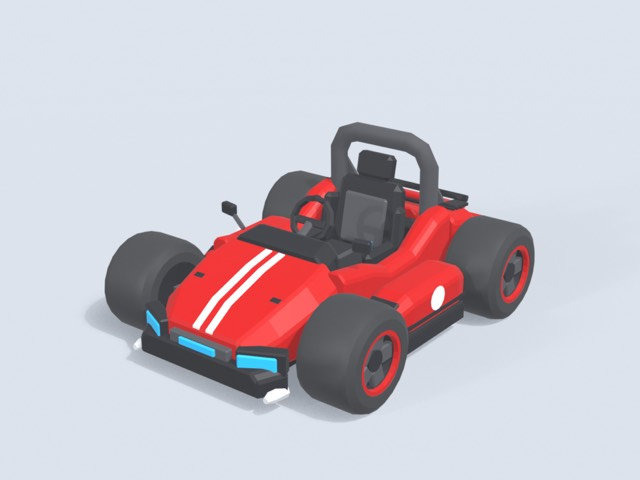
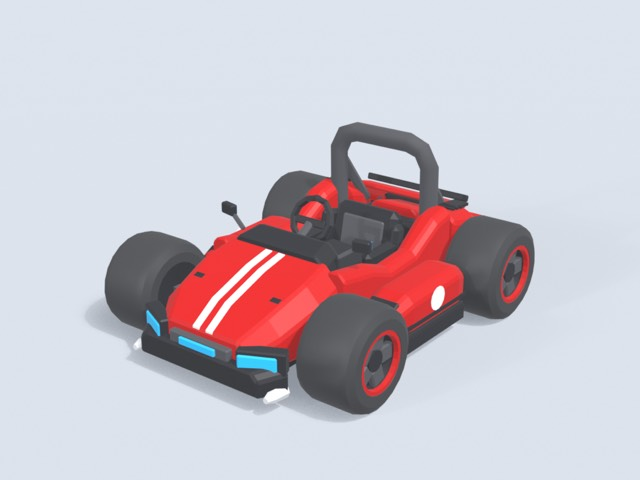
Trial: lower seat back on the scripted kart so the driver shows from behind

Changed region(s): [[0.5, 0.3125, 0.6562, 0.4688]]

diff --git a/scripts/blender/scripted-models/build_kart.py b/scripts/blender/scripted-models/build_kart.py
@@ -65,10 +65,11 @@ sw.rotation_euler=(0,-0.42,0)
 P.append(cube('steer_hub',BLK,(0.04,0,0.322),(0.012,0.10,0.022),rot=(0,-0.42,0),bevel=0.003))
 # --- seat
 P.append(cube('seat_base',BLK,(-0.12,0,0.135),(0.20,0.21,0.07),rot=(0,-0.08,0),bevel=0.014))
-P.append(cube('seat_back',BLK,(-0.235,0,0.255),(0.055,0.25,0.23),rot=(0,-0.2,0),bevel=0.018,taper=(1,0.84)))
-for sy in (-1,1): P.append(cube('seat_wing',BLK,(-0.205,sy*0.118,0.24),(0.07,0.03,0.15),rot=(0,-0.2,sy*0.25),bevel=0.012))
-P.append(cube('seat_pad',GRY,(-0.21,0,0.255),(0.02,0.15,0.15),rot=(0,-0.2,0),bevel=0.008))
-P.append(cube('headrest',BLK,(-0.268,0,0.405),(0.045,0.12,0.075),rot=(0,-0.2,0),bevel=0.012))
+# Seat back kept low (2026-11-11): from the chase camera the tall back and
+# headrest hid the driver, who is the thing the player is looking for.
+P.append(cube('seat_back',BLK,(-0.228,0,0.215),(0.055,0.25,0.15),rot=(0,-0.2,0),bevel=0.018,taper=(1,0.84)))
+for sy in (-1,1): P.append(cube('seat_wing',BLK,(-0.2,sy*0.118,0.21),(0.07,0.03,0.11),rot=(0,-0.2,sy*0.25),bevel=0.012))
+P.append(cube('seat_pad',GRY,(-0.205,0,0.215),(0.02,0.15,0.10),rot=(0,-0.2,0),bevel=0.008))
 # --- roll hoop (chamfered arch) 
 hoop=[(-0.305,-0.16,0.20),(-0.30,-0.16,0.42),(-0.297,-0.135,0.468),(-0.295,-0.09,0.485),(-0.295,0.09,0.485),(-0.297,0.135,0.468),(-0.30,0.16,0.42),(-0.305,0.16,0.20)]
 P.append(tube('hoop',GRY,hoop,0.03,sides=8,ref=(1,0,0),flat=0.6))
